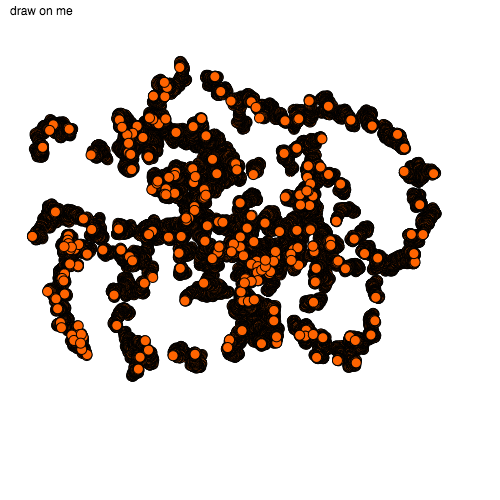
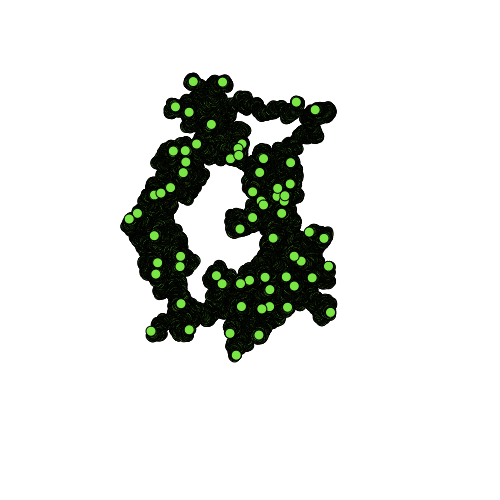
lots of laws

Changed region(s): [[0.03, 0.12, 0.9, 0.78], [0.06, 0.21, 0.18, 0.33], [0.0, 0.0, 0.15, 0.03]]

diff --git a/assets/js/main.js b/assets/js/main.js
@@ -1,5 +1,37 @@
+// http://jsfiddle.net/TrueBlueAussie/ZJDkF/8/
+jQuery.fn.fitToParent = function () {
+  this.each(function () {
+    var canvas = jQuery(this);
+    var p5w = canvas.attr('width');
+    var p5h = canvas.attr('height');
+    var width = canvas.width();
+    var height = canvas.height();
+    var parentWidth = canvas.parent().width();
+    var parentHeight = canvas.parent().height();
+
+    var aspect = width / height;
+    var parentAspect = parentWidth / parentHeight;
+
+    if (aspect > parentAspect) {
+      newWidth = parentWidth;
+      newHeight = newWidth / aspect;
+    } else {
+      newHeight = parentHeight;
+      newWidth = newHeight * aspect;
+    }
+    canvas.width(newWidth < p5w ? newWidth : p5w);
+    canvas.height(newHeight < p5h ? newHeight : p5h);
+  });
+};
+
 /* global $ document window */
 $(document).ready(function() {
   // console.log('ready');
   // var tagblock = $('.block-page-tags');
+  $('#sketch canvas').fitToParent();
+});
+
+
+$(window).resize(function () {
+  $('#sketch canvas').fitToParent();
 });

diff --git a/interact/p5js/drawing-with-particles/index.js b/interact/p5js/drawing-with-particles/index.js
@@ -1,18 +1,33 @@
 /*eslint-disable*/
 var agents = [];
+var nottouched = true;
+var once = false;
+var col = null;
 function setup() {
   var canvas = createCanvas(500, 500);
   canvas.parent('sketch');
-  text("draw on me", 10, 15);
+  colorMode(HSB);
+  col = color(random(360), 70, 90);
 }
 
 function draw() {
+  if(nottouched == true){
+    background(255);
+    textAlign(CENTER);
+    text('draw here and hit "s" to save an image', width/2, height/2);
+
+  }
+  if(once == false && nottouched == false){
+    background(255);
+    once = true;
+  }
   for (var i = 0; i < agents.length; i++) {
     agents[i].run();
   }
 }
 
 function mouseDragged() {
+  nottouched = false;
   agents.push(new Particle(mouseX, mouseY));
 }
 
@@ -27,8 +42,9 @@ function keyPressed (){
 function Particle(_x, _y) {
   this.x = _x;
   this.y = _y;
+  this.color = col;
   this.display = function() {
-    fill(255, 100, 0);
+    fill(this.color);
     push();
     translate(this.x, this.y);
     ellipse(0, 0, 10, 10);

diff --git a/_includes/filtered-index-overview.html b/_includes/filtered-index-overview.html
@@ -1,0 +1,15 @@
+
+<div class="index-overview">
+{% for page in site.pages %}{% if page.meta == nil  %}{% for tag in page.tags %}{% if tag == include.param %}
+<div class="thumb thumb-noblock">
+<a href="{{ page.permalink | prepend: site.baseurl }}"><img src="{{site.baseurl}}/{{ page.path | replace:'index.md','' }}thumb.png">
+<div class="thumb-title"><small>{{page.title | truncate: 10,'…' | append: ' →'}}</small></div>
+</a>
+<div class="clear-float"></div>
+</div>
+{% endif %}
+{% endfor %}
+{% endif %}
+{% endfor %}
+</div>
+<div class="clear-float"></div>

diff --git a/_includes/overview.html b/_includes/overview.html
@@ -6,8 +6,8 @@
 <div class="block-info">
 <h3>{{page.title}}</h3>
   <div class="block-page-tags font_small">{% include icon-tags.html %}
-    {% for t in page.tags  %}{% if t != include.param %}
-    <span><a href="#">{{t}}</a></span>{% unless forloop.last %}, {% endunless %}{% endif %}{% endfor %}
+    {% for t in page.tags  %}
+    <span><a href="#">{{t}}</a></span>{% unless forloop.last %}, {% endunless %}{% endfor %}
     </div>
 </div>
 {% if page.summary %}<div class="summary">

diff --git a/data/p5js/open-paths/index.js b/data/p5js/open-paths/index.js
@@ -57,6 +57,7 @@ var FHP_eastlon = 13.054676055908203; // the most right point
 var locs = [];
 var json = null;
 function preload() {
+
   json = loadJSON('https://raw.githubusercontent.com/fabianmoronzirfas/gestalten-in-code/master/data/p5js/open-paths/openpaths_fabiantheblind.json');
 }
 function setup() {

diff --git a/assets/css/main.scss b/assets/css/main.scss
@@ -184,7 +184,11 @@ p {
 #sketch{
   width:100%;
   text-align:center;
+  canvas{
+    object-fit:contain !important;
+  }
 }
+
 
 @media only screen
 and (max-device-width : 450px)

diff --git a/index.md b/index.md
@@ -11,7 +11,7 @@ meta: True
 
 <div class="hero">What is <em>"Gestalten in Code"</em>?<br>It is an exploration into the the depths of generative design. It is learning material for an upcoming seminar at the <a href="http://www.fh-potsdam.de/">University of Applied Sciences Potsdam (Germany)</a> by <a href="http://fabianmoronzirfas.me/">Fabian Morón Zirfas</a>. It is an attempt to apply the "Laws of Gestalt" in programming. Last but not least it is a comparison of several creative coding frameworks. To show how the same language can be applied in different contexts. Follow me while into the rabbits hole of <a href="{{site.baseurl}}/p5/">"P5"</a>.</div>  
 
-The examples on this site are clustered in different ways. By topics like [form](/gestalten-in-code/form), [color](/gestalten-in-code/color), [typography](/gestalten-in-code/typography), by language like [Processing](/gestalten-in-code/processing), [P5.js](/gestalten-in-code/p5js), [Basil.js](/gestalten-in-code/basiljs) and also by the Laws of Gestalt like proximity, similarity or common fate _(to name a few)_. Feel free to explore them. If you run into any errors, have questions or contributions contact me on [GitHub](https://github.com/fabianmoronzirfas/gestalten-in-code/issues).  
+The examples on this site are clustered in different ways. By topics like [form](/gestalten-in-code/form), [color](/gestalten-in-code/color), [typography](/gestalten-in-code/typography), by language like [Processing](/gestalten-in-code/processing), [P5.js](/gestalten-in-code/p5js), [Basil.js](/gestalten-in-code/basiljs) and also by the Laws of Gestalt like proximity, similarity or common fate _(to name a few)_. Some of them might appear in different categories. Feel free to explore them. If you run into any errors, have questions or contributions contact me on [GitHub](https://github.com/fabianmoronzirfas/gestalten-in-code/issues).  
 
 So what is "Gestalt"?  
 
@@ -28,7 +28,7 @@ Based on this Wertheimer defined six laws.
 - the ["Law of Closure"](/gestalten-in-code/law-of/closure)
 - the ["Law of Common Fate"](/gestalten-in-code/law-of/common-fate)  
 
-Later several other laws where introduced. The Law of Common Region, the Law of Simultaneity, the Law of Connected Elements, the Law of Figure and Ground and many more. There is no official "list" that tells us which these laws are. One might say there is an (in)finite number of them. In the spirit of Gestalt we can define laws by combining the existing ones into new ones to create something other then the sum of the parts.  
+Later several other laws where introduced. The Law of Common Region, the Law of Simultaneity, the Law of Connected Elements, the Law of Figure and Ground and many more. There is no official ["list"](/gestalten-in-code/laws/) that tells us which these laws are. One might say there is an (in)finite number of them. In the spirit of Gestalt we can define laws by combining the existing ones into new ones to create something other then the sum of the parts.  
 
 {% comment %}
 In the book "2d Visual Perception: Elementary Phenomena of Two-dimensional Perception. A Handbook for Artists and Designers." Moritz Zwimpfer also explores the visual perception. It is clearly based on the Laws of Gestalt even though the original laws are not mentioned anywhere. He takes these principles and orders them in a new manor. Some of his topics are: Contrasts, Groups, Figure-Ground, Movement and Time, Emotion and others.  

diff --git a/about/p5.md b/about/p5.md
@@ -9,4 +9,4 @@ nosource: True
 > What? P5? I thought it is Processing. Is it P5.js or what?  
 > Rock Strongo  
 
-The naming "P5" is not a known convention. It is rather my own term to combine all those flavors of Processing into one single word.  
+The naming "P5" is not a known convention. It is rather my own term to combine all those flavors of Processing into one single title. Why mixing them all together? In the last several years I tried to teach each of these frameworks on its own. It turned out that each has its advantages and disadvantages _(who would have thought of that)_. if you want to create something for the web - use [P5.js](/gestalten-in-code/p5js). If you want lots of particles or interact with hardware - use [Processing](/gestalten-in-code/processing) and if you need fine grained macro typography go for [Basil.js](/gestalten-in-code/basiljs) or [Extendscript](/gestalten-in-code/extendscript). Don't lock yourself in one box. Use the right tool for the right job.  

diff --git a/laws/index.md b/laws/index.md
@@ -1,0 +1,17 @@
+---
+title: Gestalt Laws
+meta: True
+layout: default
+summary: Foo  
+permalink: laws/
+nosource: True
+---
+
+- the ["Law of Proximity"](/gestalten-in-code/law-of/proximity)  
+- the ["Law of Similarity"](/gestalten-in-code/law-of/similarity)  
+- the "Law of Good Gestalt" or also called ["Law of Prägnanz"](/gestalten-in-code/law-of/praegnanz)  
+- the ["Law of Continuity"](/gestalten-in-code/law-of/continuity)
+- the ["Law of Closure"](/gestalten-in-code/law-of/closure)
+- the ["Law of Common Fate"](/gestalten-in-code/law-of/common-fate)  
+- the ["Law of Gestaltwechsel"](/gestalten-in-code/law-of/gestaltwechsel)  
+- the ["Law of Connected Elements"](/gestalten-in-code/law-of/connected-elements)  

diff --git a/laws/law-of-similarity.md b/laws/law-of-similarity.md
@@ -2,7 +2,7 @@
 title: Law of Similarity
 meta: True
 layout: default
-summary: Elements in a within an assortment that are similar to each other are perceived as a group. This can be achieved by <a href="/gestalten-in-code/form">form</a>, <a href="/gestalten-in-code/color">color</a>, texture or even <a href="/gestalten-in-code/motion">motion</a>.  
+summary: Elements within an assortment that are similar to each other are perceived as a group. This can be achieved by <a href="/gestalten-in-code/form">form</a>, <a href="/gestalten-in-code/color">color</a>, texture or even <a href="/gestalten-in-code/motion">motion</a>.  
 permalink: law-of/similarity
 nosource: True
 ---

diff --git a/about/index.md b/about/index.md
@@ -9,16 +9,16 @@ nosource: True
 
 ## Processing [{% include icon-link.html %}]({{site.baseurl}}/processing/)  
 
-{% include overview.html param="processing" %}
+{% include filtered-index-overview.html param="processing" %}
 
 ## Basil.js 
 
-{% include overview.html param="Basil.js" %}
+{% include filtered-index-overview.html param="Basil.js" %}
 
 ## P5.js
 
-{% include overview.html param="P5.js" %}
+{% include filtered-index-overview.html param="P5.js" %}
 
 ## Extendscript
 
-{% include overview.html param="extendscript" %}
+{% include filtered-index-overview.html param="extendscript" %}

diff --git a/interact/p5js/drawing-with-particles/index.md b/interact/p5js/drawing-with-particles/index.md
@@ -2,9 +2,9 @@
 layout: default
 author: Fabian Morón Zirfas
 title: Drawing with Particles
-tags: [P5.js, repeat, interact, mouse, key, ]
-permalink: /repeat/drawing-with-particles
-summary: This example shows different interaction types. Keycodes and mouse movement.
+tags: [P5.js, repeat, interact, mouse, key, color, ]
+permalink: /interact/drawing-with-particles
+summary: This example shows different interaction types. Keycodes and mouse movement. Text on screen and also global color creation.
 archive: drawing-with-particles.zip
 ---  
 
